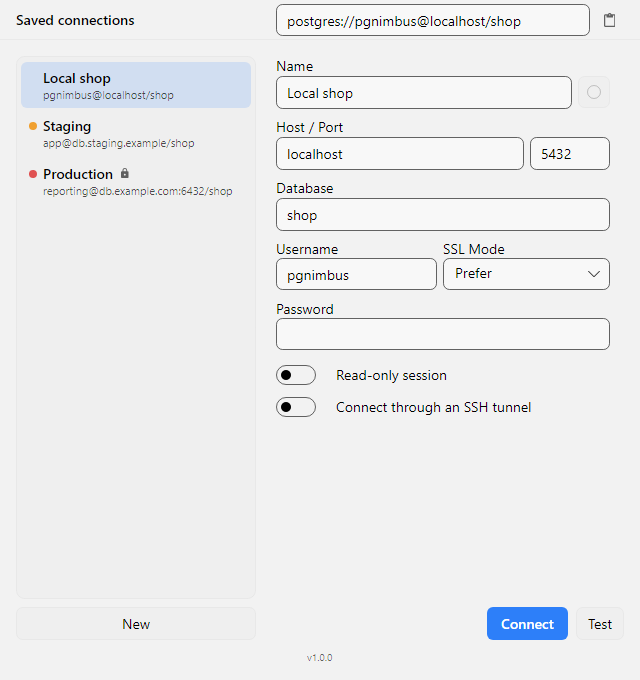
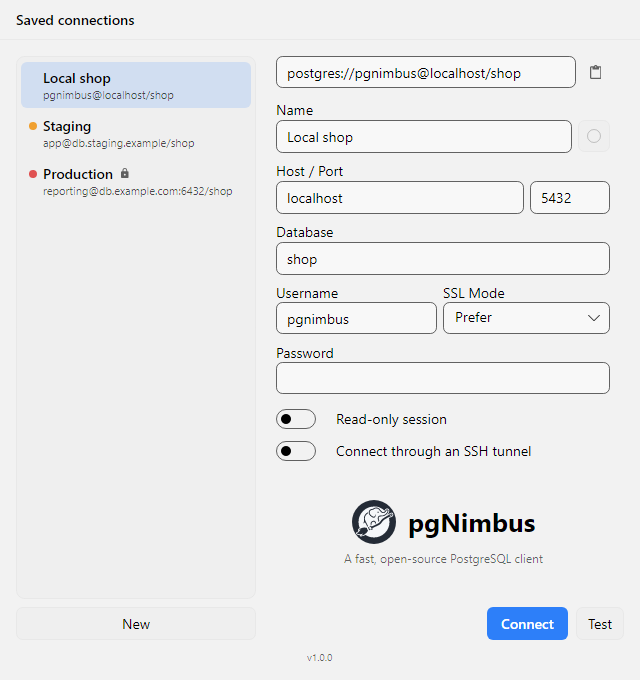
Connection string back in the form; the brand lockup in its empty space
Moving the paste-a-connection-string box into the title bar was rejected on
sight; it is back at the top of the form, and the bar keeps only the
"Saved connections" heading.

The empty space below the fields now carries the identity the caption
used to: the mark, the name and the About tagline, laid out like the
GitHub social card. It shows only while it fits whole there, so the SSH
section, the credential warning or a short window take the room back.
The fit is measured from the form's desired height (the scroller's Extent
is stretched to the viewport), and the lockup is hidden by opacity rather
than IsVisible: measuring a collapsed element by hand from LayoutUpdated
made every pass disagree with the last, and the dialog never settled.

The mark is vector: scripts/design/svg-to-axaml.py transcribes
design/logo.svg into Styles/LogoMark.axaml, one more generated step in
the logo chain.

diff --git a/scripts/design/svg-to-axaml.py b/scripts/design/svg-to-axaml.py
@@ -1,0 +1,111 @@
+#!/usr/bin/env python3
+"""Writes PgNimbus.App/Styles/LogoMark.axaml from design/logo.svg.
+
+The app draws the mark as vector geometry (a DrawingImage keyed LogoMarkImage),
+so it is sharp at any size and on any DPI, instead of shipping another raster
+that would have to be kept in step with the master. Like everything downstream
+of design/logo.svg this is generated: edit the .af, regenerate the SVG with
+af-to-svg.py, then run this. Never hand-edit the output.
+
+It is a transcription, not an interpretation, and that only works because
+logo.svg is flat by contract (see its header): plain <circle> and <path>
+elements in the root coordinate system, colour given as a plain fill/stroke
+attribute, no transforms, masks or <use>. A clearance group's stroke settings
+sit on the <g>, and apply to every path in it.
+
+    python scripts/design/svg-to-axaml.py
+"""
+
+from __future__ import annotations
+
+import re
+import sys
+import xml.etree.ElementTree as ET
+from pathlib import Path
+
+ROOT = Path(__file__).resolve().parents[2]
+SOURCE = ROOT / "design" / "logo.svg"
+TARGET = ROOT / "PgNimbus.App" / "Styles" / "LogoMark.axaml"
+NS = {"svg": "http://www.w3.org/2000/svg"}
+
+CAPS = {"round": "Round", "square": "Square", "butt": "Flat"}
+JOINS = {"round": "Round", "bevel": "Bevel", "miter": "Miter"}
+
+
+def drawing(geometry: str, attrs: dict[str, str]) -> str:
+    fill = attrs.get("fill")
+    stroke = attrs.get("stroke")
+    brush = f' Brush="{fill}"' if fill and fill != "none" else ""
+    pen = ""
+    if stroke and stroke != "none":
+        pen = (
+            "\n                    <GeometryDrawing.Pen>"
+            f'\n                        <Pen Brush="{stroke}" Thickness="{attrs.get("stroke-width", "1")}"'
+            f' LineJoin="{JOINS[attrs.get("stroke-linejoin", "miter")]}"'
+            f' LineCap="{CAPS[attrs.get("stroke-linecap", "butt")]}" />'
+            "\n                    </GeometryDrawing.Pen>"
+        )
+    if pen:
+        return (
+            f'                <GeometryDrawing{brush} Geometry="{geometry}">{pen}'
+            "\n                </GeometryDrawing>"
+        )
+    return f'                <GeometryDrawing{brush} Geometry="{geometry}" />'
+
+
+def circle_path(cx: float, cy: float, r: float) -> str:
+    # Two arcs: the path mini-language has no circle primitive.
+    return f"M{cx - r},{cy} A{r},{r} 0 1 0 {cx + r},{cy} A{r},{r} 0 1 0 {cx - r},{cy} Z"
+
+
+def walk(node: ET.Element, inherited: dict[str, str], out: list[str]) -> None:
+    attrs = dict(inherited)
+    for key in ("fill", "stroke", "stroke-width", "stroke-linejoin", "stroke-linecap"):
+        if key in node.attrib:
+            attrs[key] = node.attrib[key]
+
+    tag = node.tag.split("}")[-1]
+    if tag == "path":
+        out.append(drawing(re.sub(r"\s+", " ", node.attrib["d"]).strip(), attrs))
+    elif tag == "circle":
+        cx, cy, r = (float(node.attrib[k]) for k in ("cx", "cy", "r"))
+        out.append(drawing(circle_path(cx, cy, r), attrs))
+    elif tag in ("svg", "g"):
+        for child in node:
+            walk(child, attrs, out)
+    elif tag not in ("title", "style", "desc"):
+        sys.exit(f"logo.svg has a <{tag}>, which this transcription does not handle")
+
+
+def main() -> None:
+    svg = ET.parse(SOURCE).getroot()
+    if svg.attrib.get("viewBox") != "0 0 1024 1024":
+        sys.exit("expected viewBox 0 0 1024 1024")
+
+    drawings: list[str] = []
+    walk(svg, {}, drawings)
+
+    TARGET.write_text(
+        '<ResourceDictionary xmlns="https://github.com/avaloniaui"\n'
+        '                    xmlns:x="http://schemas.microsoft.com/winfx/2006/xaml">\n'
+        "\n"
+        "    <!-- GENERATED from design/logo.svg by scripts/design/svg-to-axaml.py.\n"
+        "         Do not edit: regenerate. The mark is plated (a dark disc holding a\n"
+        "         light field), so it reads on either theme with fixed colours. -->\n"
+        '    <DrawingImage x:Key="LogoMarkImage">\n'
+        "        <DrawingImage.Drawing>\n"
+        "            <DrawingGroup>\n"
+        + "\n".join(drawings)
+        + "\n            </DrawingGroup>\n"
+        "        </DrawingImage.Drawing>\n"
+        "    </DrawingImage>\n"
+        "\n"
+        "</ResourceDictionary>\n",
+        encoding="utf-8",
+        newline="\n",
+    )
+    print(f"Wrote {TARGET.relative_to(ROOT)} ({len(drawings)} drawings)")
+
+
+if __name__ == "__main__":
+    main()

diff --git a/PgNimbus.App/Views/ConnectionDialog.axaml.cs b/PgNimbus.App/Views/ConnectionDialog.axaml.cs
@@ -32,6 +32,10 @@ public partial class ConnectionDialog : Window
         Opened += OnDialogOpened;
         Closing += OnDialogClosing;
 
+        // The brand lockup follows the room the form leaves: the form's own
+        // height moves with the SSH section and the window with the user.
+        FormScroller.LayoutUpdated += (_, _) => UpdateBrandFit();
+
         // Reorder saved connections by dragging rows. Live-moves the row while
         // the pointer travels (the list itself is the drop preview), then
         // persists the order on release. Tunneled press so the row is known
@@ -89,6 +93,48 @@ public partial class ConnectionDialog : Window
     /// the form is what needs filling in. Then, if startup armed it, connects
     /// on its own.
     /// </summary>
+    /// <summary>Breathing room the lockup keeps from the form above and the buttons below.</summary>
+    private const double BrandClearance = 16;
+
+    /// <summary>
+    /// Shows the lockup only where it fits whole below the form, and centres it in
+    /// that space. It is never scaled or cropped to fit: in a space too small for it
+    /// the form is what matters, so the lockup is simply not there.
+    /// </summary>
+    private void UpdateBrandFit()
+    {
+        // The form's own height, not the scroller's Extent: the content is
+        // stretched to the viewport, so Extent never reports free space.
+        if (FormScroller.Content is not Control form)
+        {
+            return;
+        }
+
+        var formHeight = form.DesiredSize.Height;
+        var free = FormScroller.Bounds.Height - formHeight;
+
+        // The lockup always takes part in layout and is hidden by opacity, so its
+        // DesiredSize is the layout's own. Measuring it here instead - it would
+        // measure to zero while hidden - made every pass disagree with the last,
+        // and the dialog's layout never settled.
+        var fits = free >= BrandBlock.DesiredSize.Height + 2 * BrandClearance
+            && FormScroller.Bounds.Width >= BrandBlock.DesiredSize.Width;
+
+        // Called from LayoutUpdated: only write what changed, or the write
+        // itself schedules another layout pass and this never settles.
+        var row = new GridLength(Math.Max(0, formHeight));
+        if (BrandHost.RowDefinitions[0].Height != row)
+        {
+            BrandHost.RowDefinitions[0].Height = row;
+        }
+
+        var opacity = fits ? 1d : 0d;
+        if (BrandBlock.Opacity != opacity)
+        {
+            BrandBlock.Opacity = opacity;
+        }
+    }
+
     private void OnDialogOpened(object? sender, EventArgs e)
     {
         if (DataContext is not ConnectionDialogViewModel vm)

diff --git a/CLAUDE.md b/CLAUDE.md
@@ -912,12 +912,19 @@ Three rules about it:
   under an OS caption reading "pgNimbus — Connect" beside the app icon, so the
   first thing anyone saw was the one window that did not look like the app.
   `ConnectionDialog` attaches `NimbusWindowChrome` to its own 40px `ConnectBar`,
-  which repeats the form's two columns: the "Saved connections" heading over the
-  list, and the paste-a-connection-string box over the fields, in the place the
-  main window keeps its search pill (it already behaves like an address bar, rule
-  2). The form lost that row in exchange. The window `Title` stays set: the
-  taskbar and Alt+Tab still read it. The modal dialogs keep their OS captions;
-  they are not places, and a drawn caption on each is chrome for nothing.
+  which carries only the "Saved connections" heading over the list. The
+  connection-string box stays at the top of the form: it was tried in the bar,
+  where the main window keeps its search pill, and the owner rejected it on
+  sight. The window `Title` stays set for the taskbar and Alt+Tab. The modal
+  dialogs keep their OS captions; they are not places.
+  **The identity moved into the form's empty space instead**: the mark, the name
+  and the About tagline, laid out like the GitHub social card, centred below the
+  fields. It shows only while it fits whole there (`UpdateBrandFit`, hidden by opacity so it never leaves layout, on the
+  scroller's `LayoutUpdated`, measuring the form's *desired* height — the
+  scroller's `Extent` is stretched to the viewport and never reports free space),
+  so the SSH section or a short window takes the room back rather than covering or
+  cropping it. The mark is vector: `Styles/LogoMark.axaml`, generated from
+  `design/logo.svg` (see the icon section's chain).
 - **The connected window opens in the display mode the connect form was left
   in (2026-08).** `App.CarryWindowState`, called from the dialog's `Connected`
   handler before `Show()`. Connecting reads as one continuous act — the form is
@@ -1053,6 +1060,7 @@ design/logo.af                     Affinity, the editable master
   → scripts/design/dump-af.js      geometry out to JSON (run via the Affinity MCP)
   → scripts/design/af-to-svg.py    design/logo.svg
   → scripts/design/make-masters.ps1        design/masters/**
+  → scripts/design/svg-to-axaml.py         PgNimbus.App/Styles/LogoMark.axaml
   → scripts/windows/make-app-icons.ps1     PgNimbus.App/Assets/**
   → scripts/windows/make-store-logos.ps1   design/store/**
 ```

diff --git a/design/LOGO-ASSETS.md b/design/LOGO-ASSETS.md
@@ -14,6 +14,7 @@ design/logo.af                     Affinity, the editable master
   → scripts/design/dump-af.js      geometry out to JSON (run via the Affinity MCP)
   → scripts/design/af-to-svg.py    design/logo.svg
   → scripts/design/make-masters.ps1        design/masters/**
+  → scripts/design/svg-to-axaml.py         PgNimbus.App/Styles/LogoMark.axaml
   → scripts/windows/make-app-icons.ps1     PgNimbus.App/Assets/**
   → scripts/windows/make-store-logos.ps1   design/store/**
 ```
@@ -187,6 +188,14 @@ Windows to actually resolve them (see Part 3).
 ### `scripts/design/af-to-svg.py` (any OS, stdlib only)
 Run after `scripts/design/dump-af.js` in Affinity. Bakes every node transform
 into the path data and writes `design/logo.svg`.
+
+### `scripts/design/svg-to-axaml.py` (any OS, stdlib only)
+Run after any change to `design/logo.svg`. Transcribes it into
+`PgNimbus.App/Styles/LogoMark.axaml`, a `DrawingImage` keyed `LogoMarkImage` that
+the app draws wherever it shows the mark itself (the connect window's lockup), so
+it is sharp at any size instead of being one more raster to keep in step. Like
+`af-to-svg.py` it relies on the SVG being flat; it stops on any element it does not
+handle rather than guessing.
 
 ### `scripts/design/make-masters.ps1` (Windows, Inkscape + System.Drawing)
 Run after any change to `design/logo.svg`. Renders every file under
